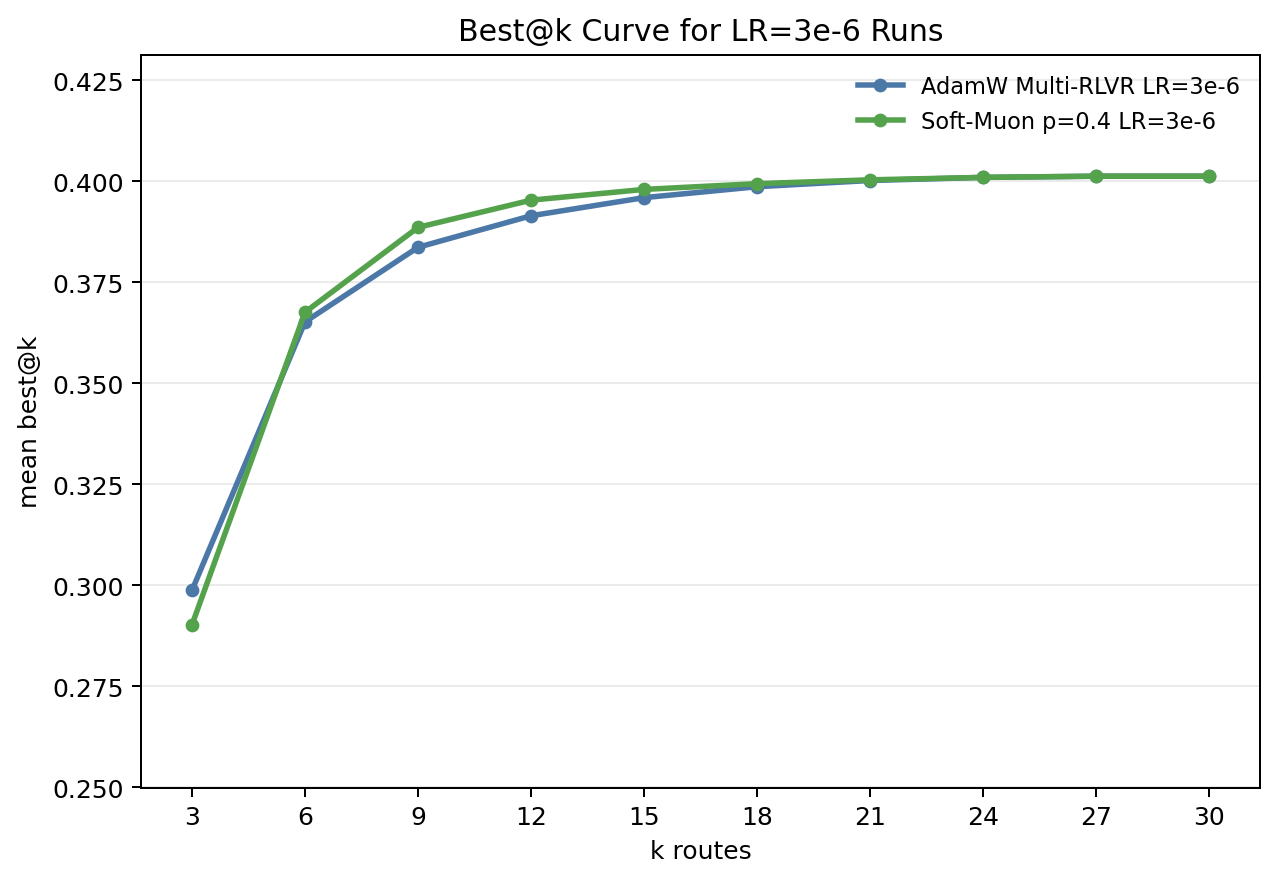
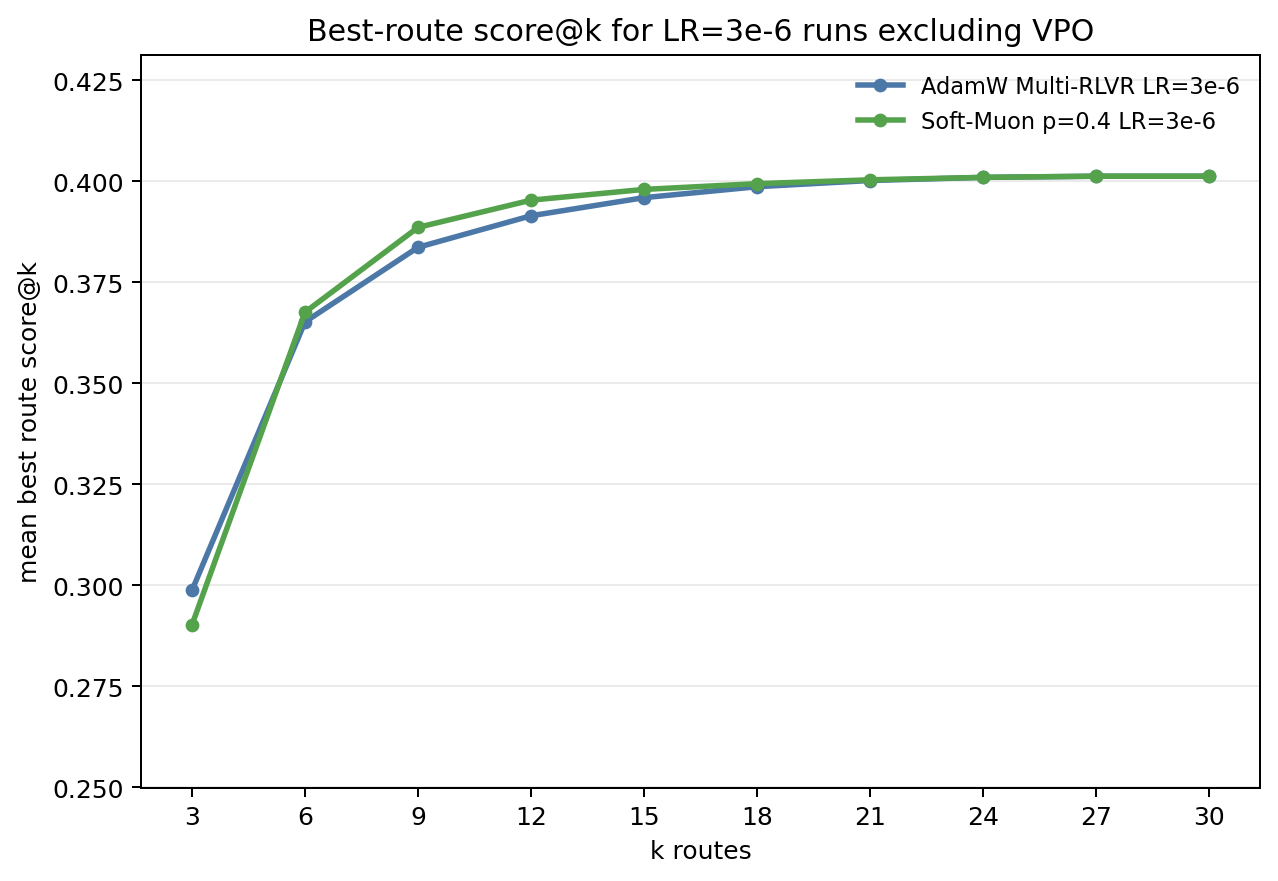
Clarify best-route score metric on docs page

Changed region(s): [[0.2441, 0.0, 0.8545, 0.0613], [0.0, 0.3065, 0.0305, 0.6742]]

diff --git a/docs/index.md b/docs/index.md
@@ -32,18 +32,17 @@ _Fixed p=0.4 Soft-Muon approximation built as a cumulative stack of standard Muo
 
 We test Soft-Muon for RL in a setting from the [VPO paper](https://arxiv.org/abs/2605.22817). We use a 7x7 version of the Maze benchmark described in the paper. We compare AdamW GRPO baseline vs Muon GRPO vs AdamW VPO. Like the VPO paper we train on multi-answer chains: one model completion contains m=3 candidate answers (routes). We use multi-answer chains for all methods (AdamW baseline, Muon, and AdamW VPO). For the AdamW and Muon GRPO methods, each rollout is scored by the best route among the 3 following the VPO paper (probably not ideal for these methods for late training). VPO additionally receives a vector reward r(x, y) representing a decomposition of the reward into [completion, gold, diamond, avoid_lava], whereas the other methods get the averaged vector reward.
 
-We run 50 steps and sweng learning rates 1e-6, 3e-6, 1e-5 and picked 3e-6 based on the pass@30 for the AdamW GRPO baseline.
+We run 50 steps and swept learning rates 1e-6, 3e-6, 1e-5 and picked 3e-6 based on mean best-route score@30 for the AdamW GRPO baseline.
 
 Please see the full experiment settings at [this repo](https://github.com/nilin/rl-diversity).
 
+The plot below reports mean best-route score@k for 7x7 Maze RLVR runs at learning rate 3e-6, excluding k=1. This is not pass@k: each route gets a continuous scalar reward from `[completion, gold, diamond, avoid_lava]`, then the evaluator takes the best route score in each k-route pool and averages those best scores.
 
-Best@k comparison for 7x7 Maze RLVR runs at learning rate 3e-6, excluding VPO and k=1.
-
-![Best@k curve comparing AdamW Multi-RLVR, Soft-Muon p=0.4, and VPO at learning rate 3e-6.](assets/best-at-k-lr3e-6-with-vpo.png)
+![Mean best-route score@k curve comparing AdamW Multi-RLVR, Soft-Muon p=0.4, and VPO at learning rate 3e-6.](assets/best-at-k-lr3e-6-with-vpo.png)
 
 <!---
 [View the version including AdamW VPO at LR=3e-6](assets/best-at-k-lr3e-6-with-vpo.png).
-![Best@k curve comparing AdamW Multi-RLVR and Soft-Muon p=0.4 at learning rate 3e-6.](assets/best-at-k-lr3e-6.png)
+![Mean best-route score@k curve comparing AdamW Multi-RLVR and Soft-Muon p=0.4 at learning rate 3e-6.](assets/best-at-k-lr3e-6.png)
 --->
 
-_Mean best@k over route pools for AdamW Multi-RLVR and fixed-coefficient Soft-Muon p=0.4._
+_Mean best-route score@k over route pools for AdamW Multi-RLVR, AdamW VPO, and fixed-coefficient Soft-Muon p=0.4._
